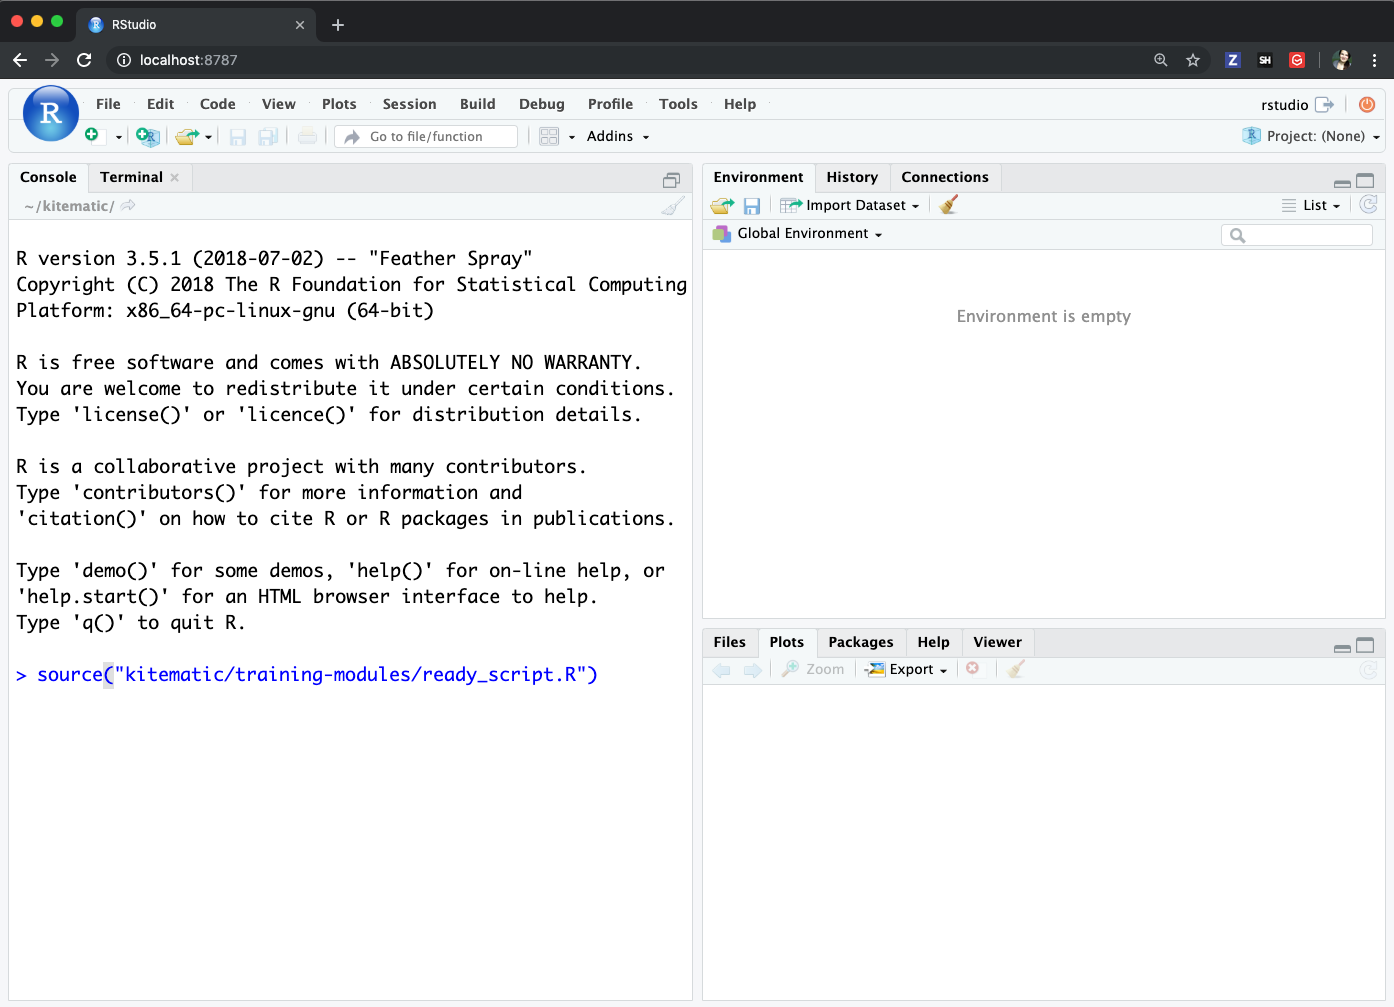
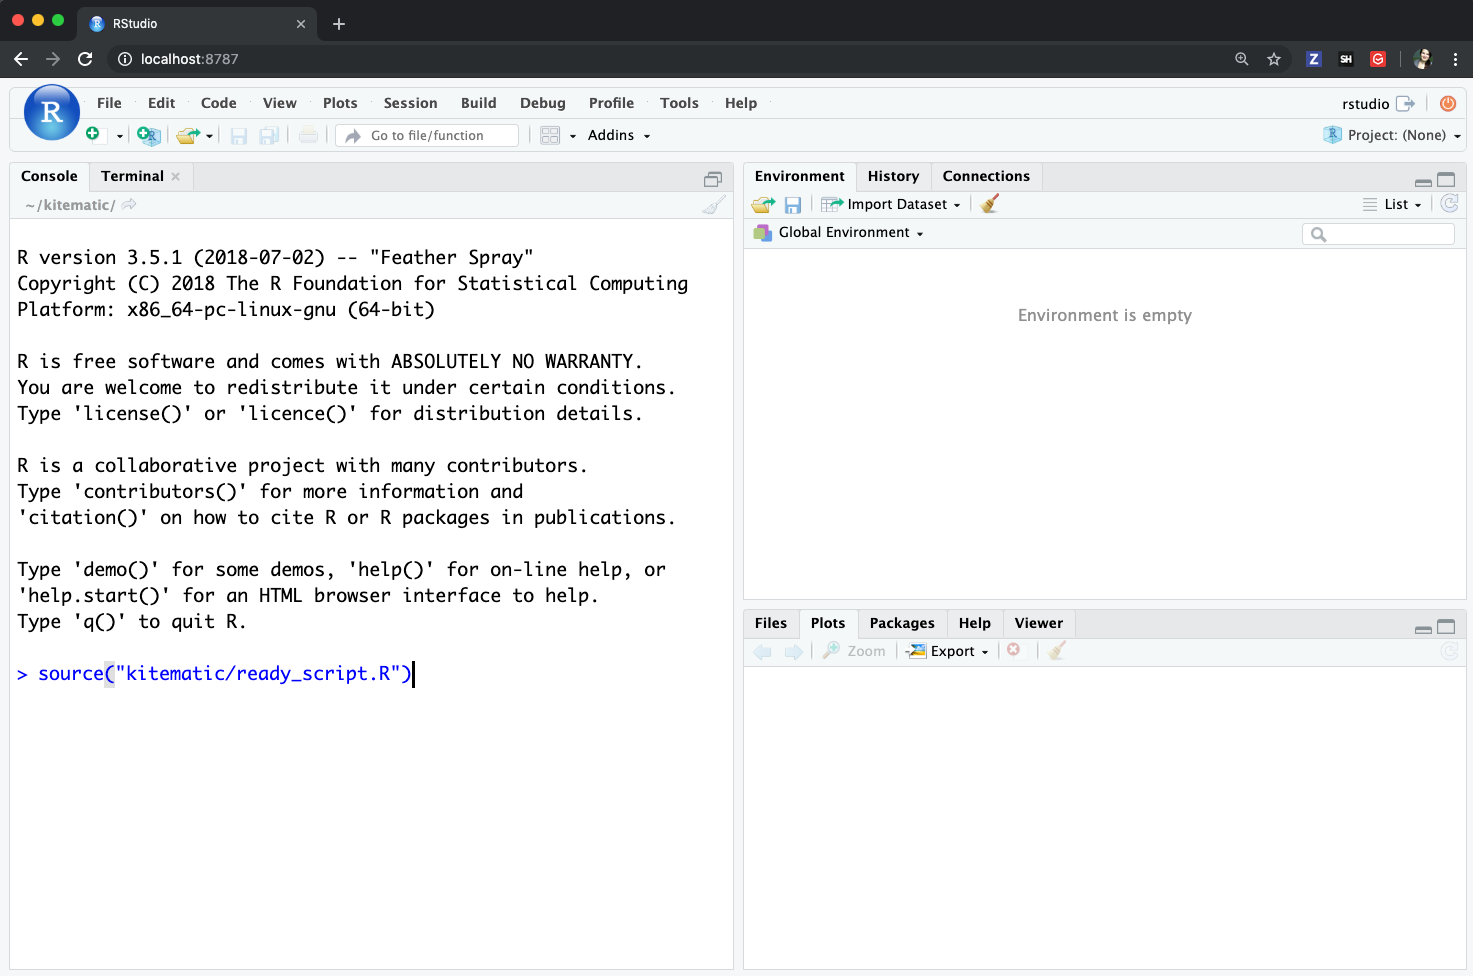
Update the location of the ready_script.R according to steps

diff --git a/docker-load.md b/docker-load.md
@@ -137,7 +137,7 @@ your hand.
 R Studio `Console` window.
 
 ```
-source("kitematic/training-modules/ready_script.R")
+source("kitematic/ready_script.R")
 ```
 
 ![Ready](screenshots/ready_command.png)

diff --git a/docker-pull.md b/docker-pull.md
@@ -59,7 +59,7 @@ it.
 R Studio `Console` window.
 
 ```
-source("kitematic/training-modules/ready_script.R")
+source("kitematic/ready_script.R")
 ```
 
 ![Ready](screenshots/ready_command.png)
